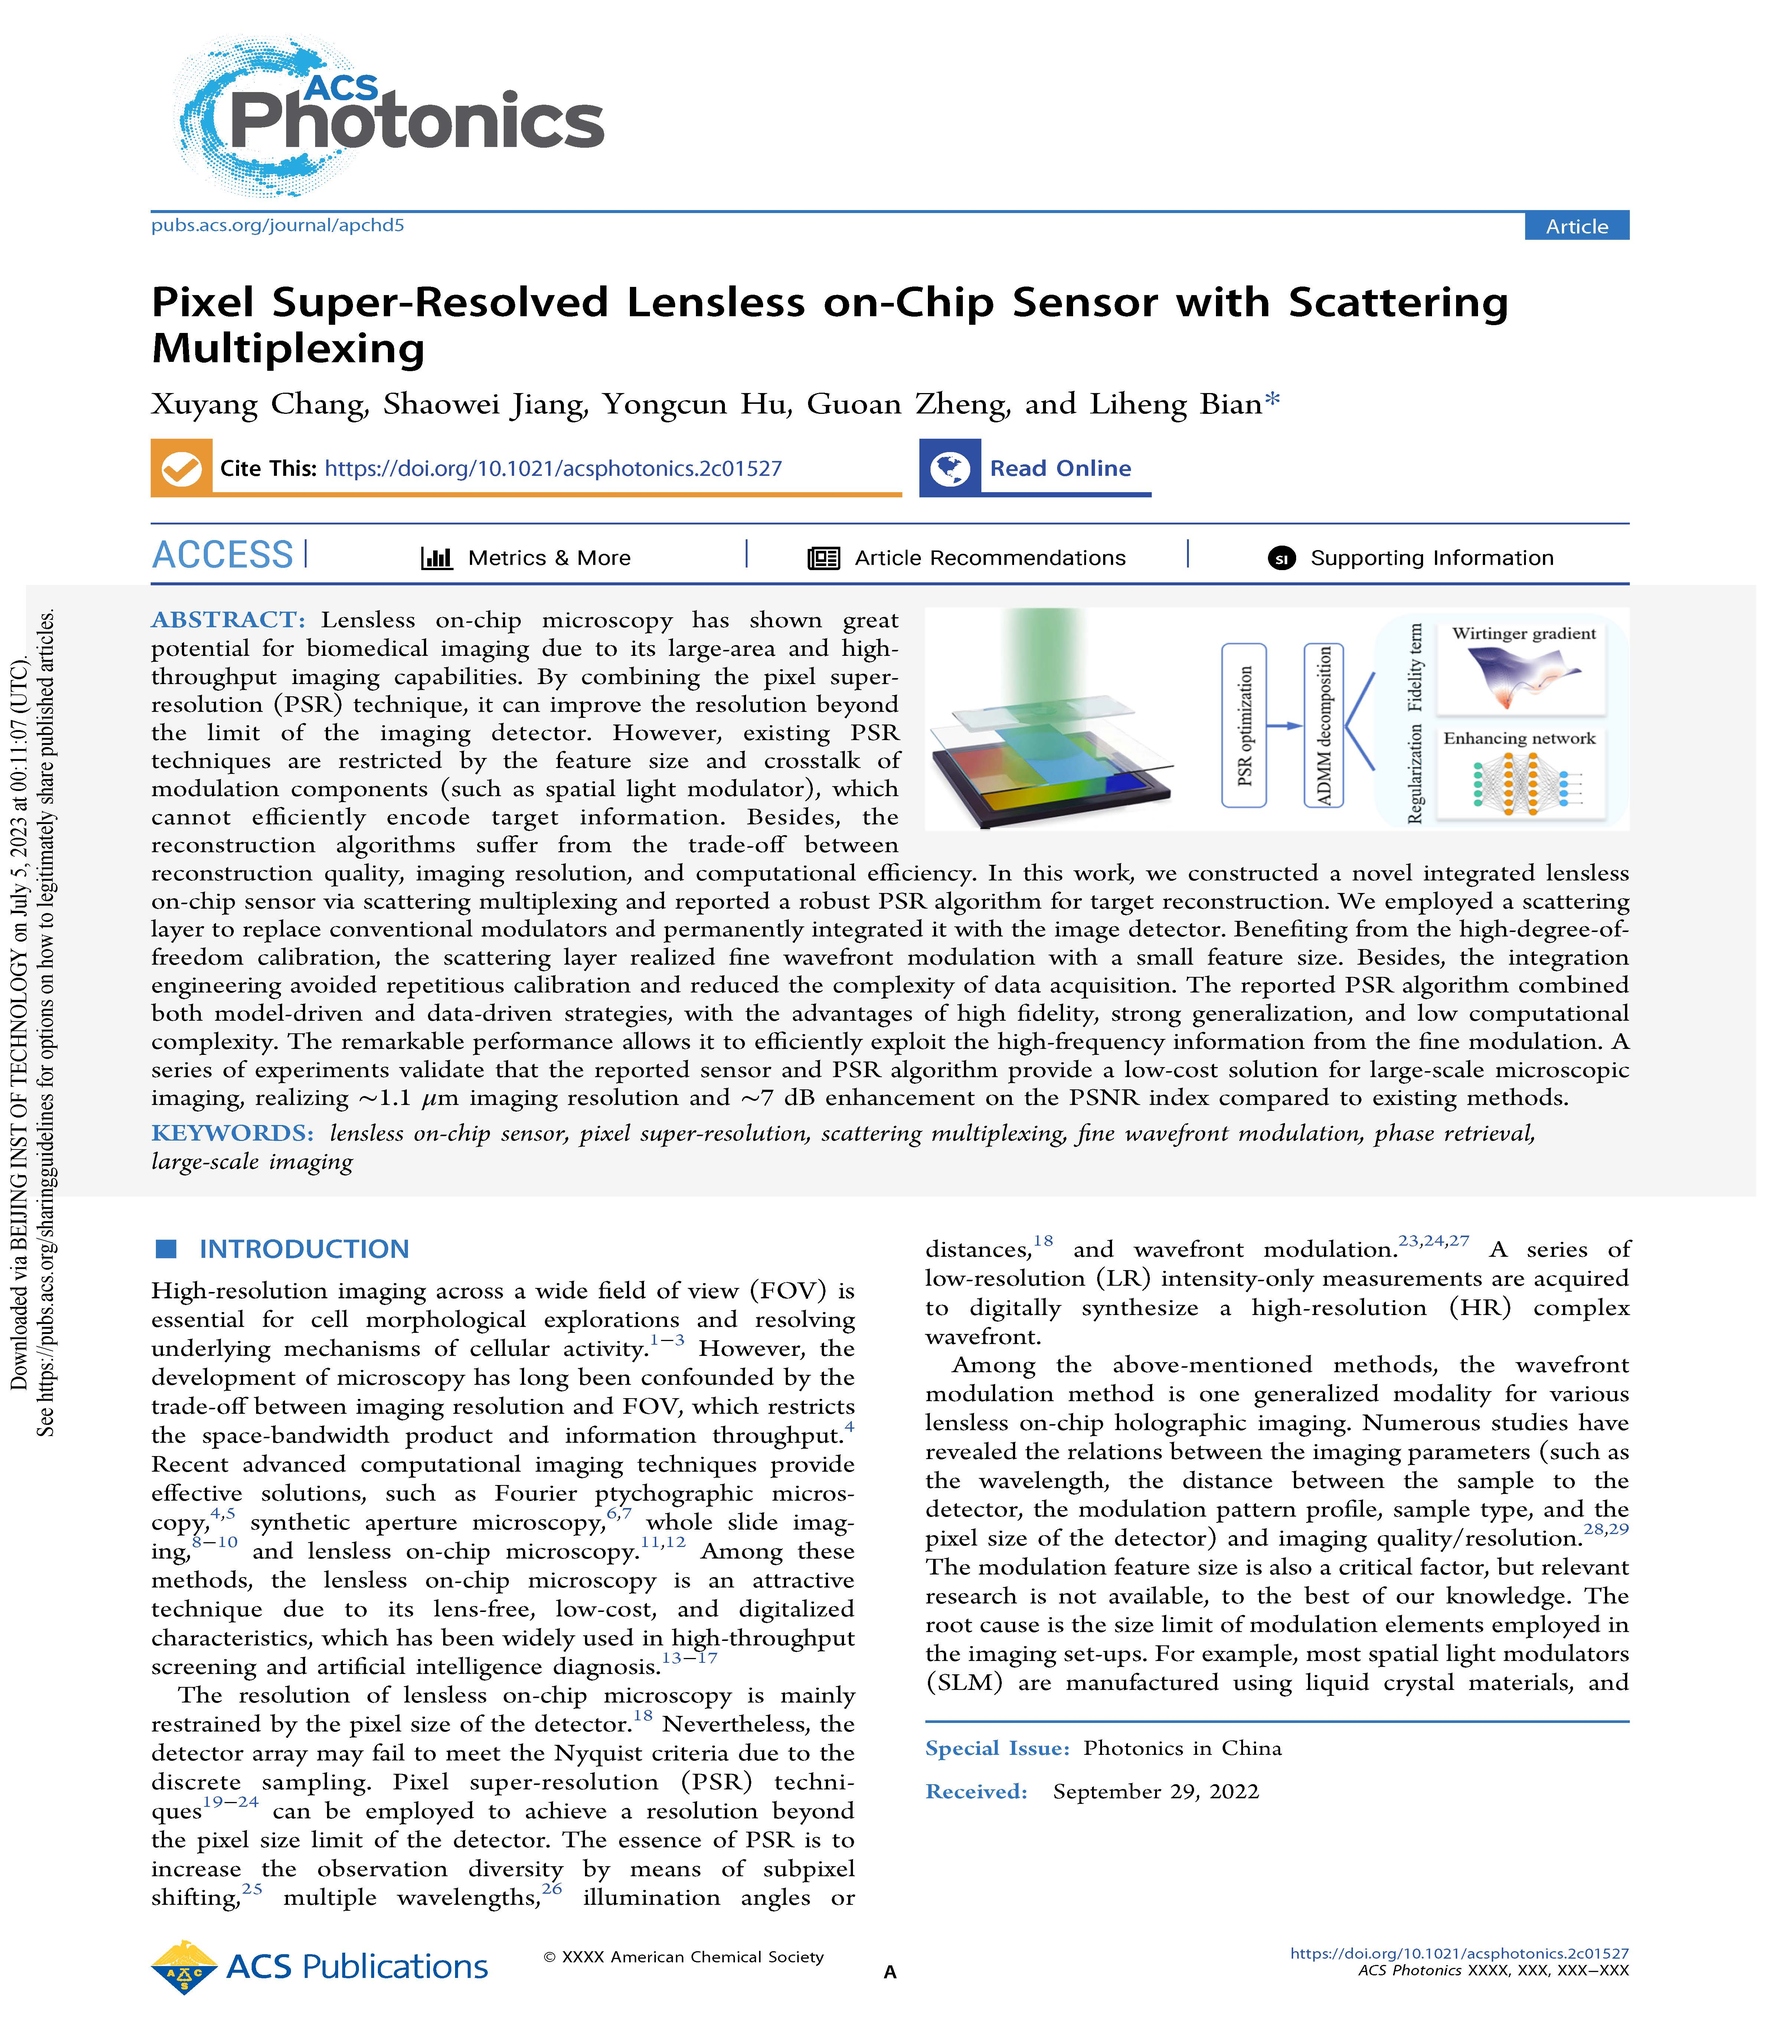
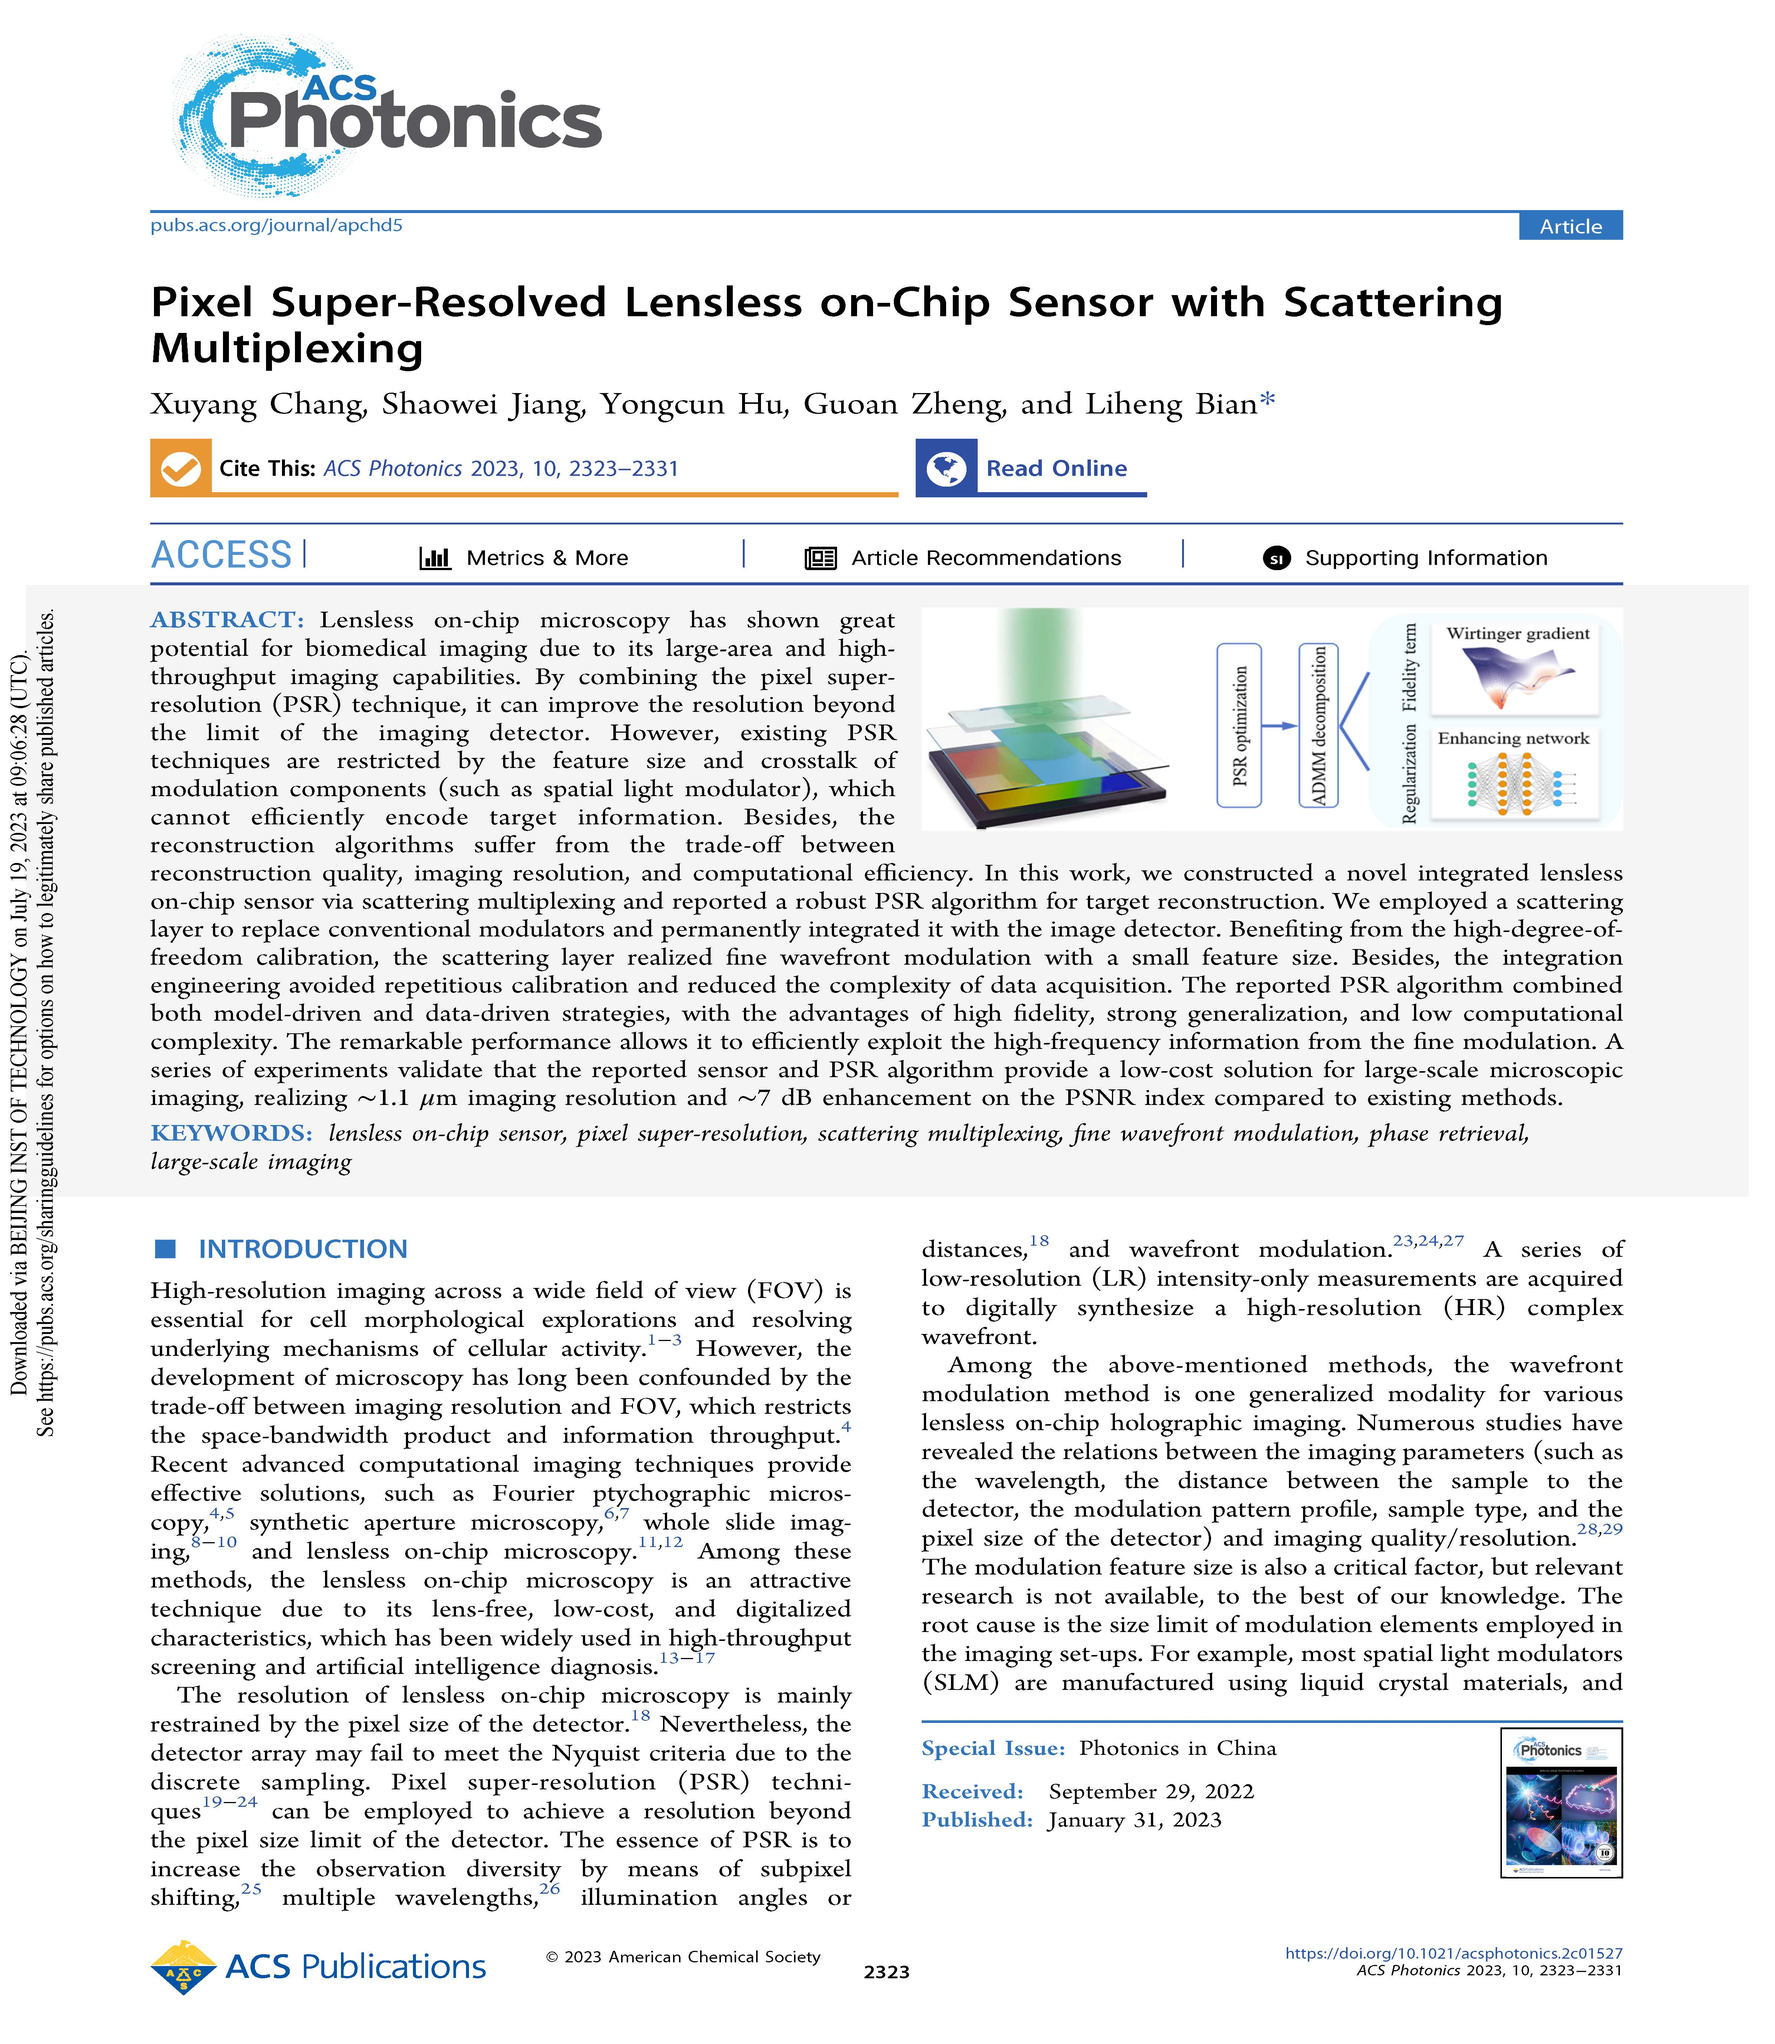
ol

diff --git a/publications.html b/publications.html
@@ -149,6 +149,12 @@
 									
 									<h2>2023</h2>
 									
+									<p>[54] Meng Li, Zhijie Gao, <b>Liheng Bian*</b>, '<a href="">Illumination schemes for coded coherent diffraction imaging: a comprehensive comparison</a>,' <b><i>Optics and Laser Technology</i></b>, 2023, vol. xx, no. xx, pp. xx.</span></p>
+									
+									
+									<p>[53] Xuyang Chang, Cheng Shen, Sitian Liu, Dezhi Zheng, Shuai Wang, Changhuei Yang, Norden Huang, <b>Liheng Bian*</b>, '<a href="">Robust Kramers-Kronig holographic imaging with Hilbert-Huang transform</a>,' <b><i>Optics Letters</i></b>, 2023, vol. 48, no. 16, pp. xx-xx.</span></p>
+									
+									
 									<p>[52] Xuyang Chang, Rifa Zhao, Shaowei Jiang, Cheng Shen, Guoan Zheng, Changhuei Yang, <b>Liheng Bian*</b>, '<a href="https://doi.org/10.1117/1.APN.2.4.046006">Complex-domain enhancing neural network for large-scale coherent imaging</a>,' <b><i>Advanced Photonics Nexus</i></b>, 2023, vol. 2, no. 4, pp. 046006.</span></p>
 									
 									
@@ -173,7 +179,7 @@
 									
 									<p>[43] Zhihong Zhang, Yuxiao Cheng, Jinli Suo*, <b>Liheng Bian</b>, Qionghai Dai, '<a href="https://ieeexplore.ieee.org/document/10047966">INFWIDE: Image and Feature Space Wiener Deconvolution Network for Non-blind Image Deblurring in Low-Light Conditions</a>,' <b><i>IEEE Transactions on Image Processing</i></b>, 2023, vol. 32, pp. 1390-1402.</span></p>
 									
-									<p>[42] Xuyang Chang, Shaowei Jiang, Yongcun Hu, Guoan Zheng, <b>Liheng Bian*</b>, '<a href="https://pubs.acs.org/doi/10.1021/acsphotonics.2c01527">Pixel super-resolved lensless on-chip sensor with scattering multiplexing</a>,' <b><i>ACS Photonics</i></b>, 2023, vol. xx, no. xx, pp. xx-xx.</span></p>
+									<p>[42] Xuyang Chang, Shaowei Jiang, Yongcun Hu, Guoan Zheng, <b>Liheng Bian*</b>, '<a href="https://pubs.acs.org/doi/10.1021/acsphotonics.2c01527">Pixel super-resolved lensless on-chip sensor with scattering multiplexing</a>,' <b><i>ACS Photonics</i></b>, 2023, vol. 10, no. 7, pp. 2323-2331.</span></p>
 									
 									
 									<p>[41] Chang Li, Lili Zhang, Zhongling Zhuo, Fei Su, Hexin Li, Siyuan Xu, Ye Liu, Zaifeng Zhang, Yibo Xie, Xue Yu*, <b>Liheng Bian*</b>, Fei Xiao*, '<a href="https://doi.org/10.7150/thno.79362">Artificial intelligence -based recognition for variant pathogenicity of BRCA1 using AlphaFold2-predicted structures</a>,' <b><i>Theranostics</i></b>, 2023, vol. 13, no. 1, pp. 391-402.</span></p>

diff --git a/members.html b/members.html
@@ -178,7 +178,7 @@
 													<p>
 													<h4>Xin Wang &nbsp | &nbsp 王鑫 &nbsp | &nbsp 2020-2023</h4>
 													<b>Work</b>: Xiaomi CO.,LTD <br>
-													<b>Background</b>: Bank Of China <br>
+													<b>Background</b>: Electrical Engineering <br>
 													</p>
 											</div>
 											
@@ -193,8 +193,8 @@
 											<div class="col-4 col-12-medium">
 													<p>
 													<h4>Qiuling Ren &nbsp | &nbsp 任秋凌 &nbsp | &nbsp 2020-2023</h4>
-													<b>Work</b>: Deep learning<br>
-													<b>Background</b>: Bank Of China <br>
+													<b>Work</b>: Bank Of China <br>
+													<b>Background</b>: Computer Science <br>
 													</p>
 											</div>
 											
